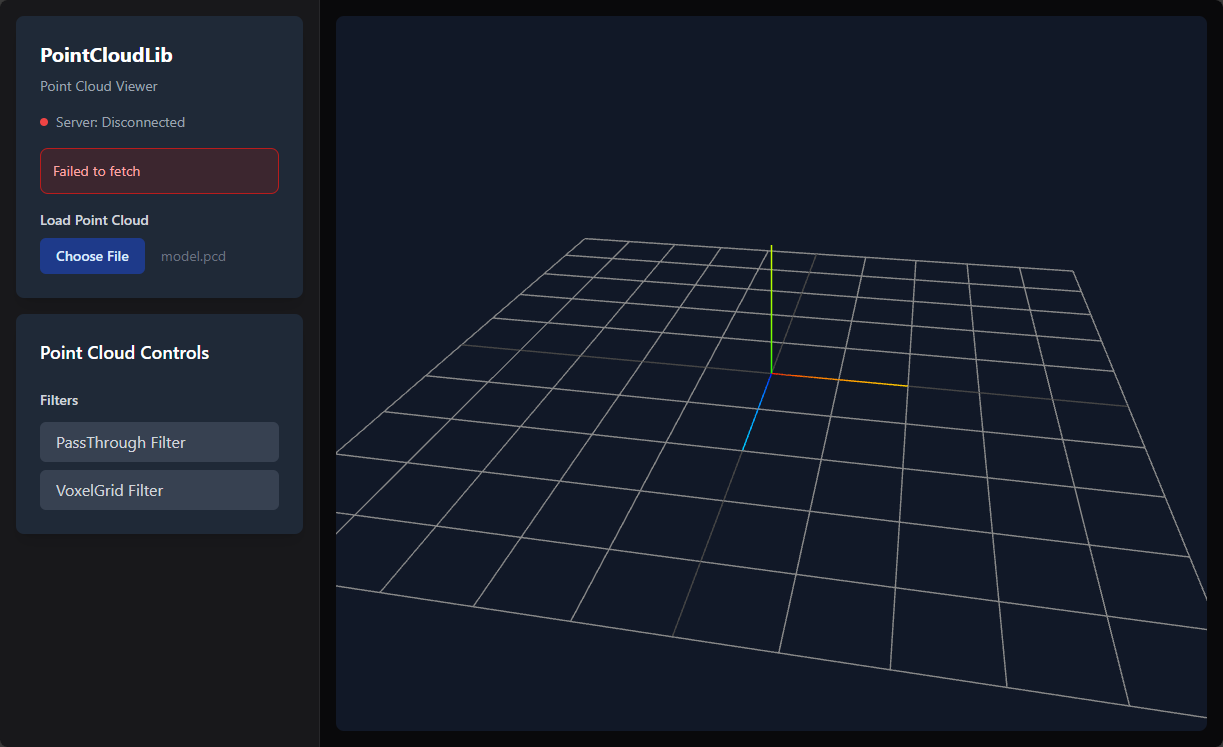
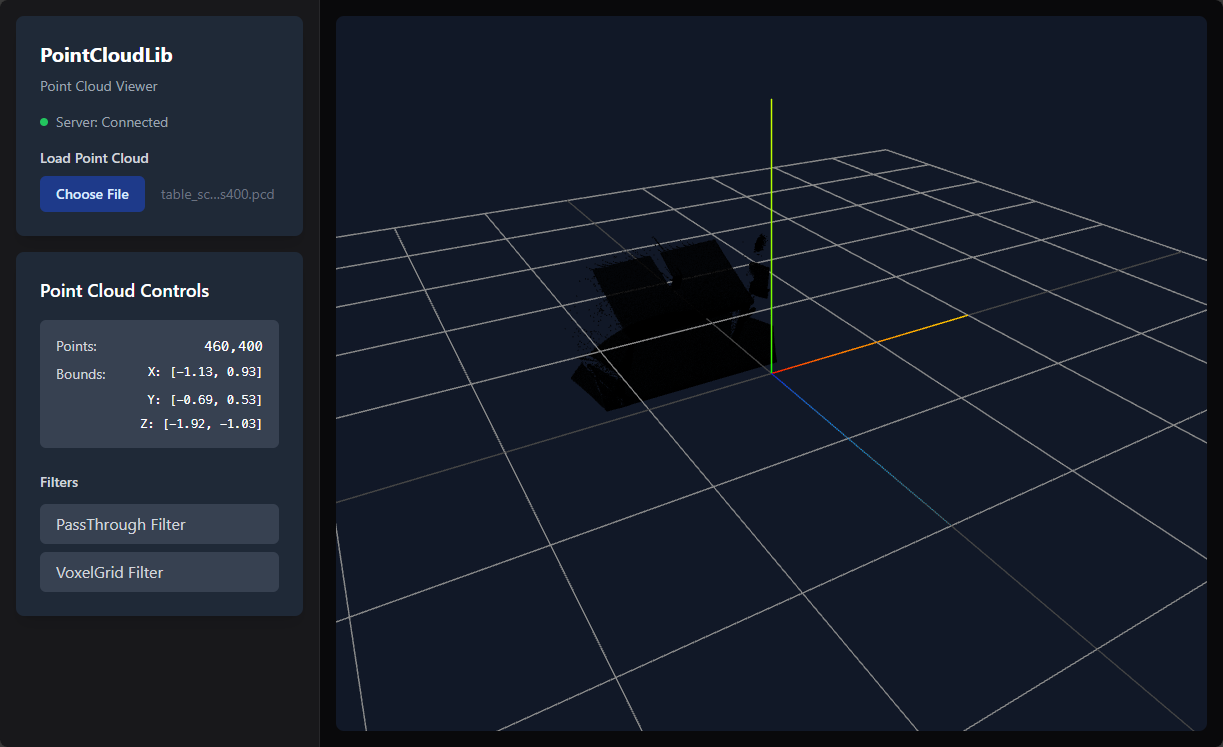
fix: Dockerization for server side fixed fix: File upload (file path cannot found) was not working in docker issue fix fix: Communication ui and server side issue fixed

diff --git a/ui/src/store/pointCloudStore.ts b/ui/src/store/pointCloudStore.ts
@@ -10,6 +10,7 @@ interface PointCloudState {
   serverConnected: boolean
   checkServerHealth: () => Promise<void>
   loadPointCloud: (filePath: string) => Promise<void>
+  uploadPointCloud: (file: File) => Promise<void>
   fetchPoints: () => Promise<void>
   applyPassThroughFilter: (field: 'x'|'y'|'z', min:number, max:number) => Promise<void>
   applyVoxelGridFilter: (leafSize:number) => Promise<void>
@@ -38,6 +39,23 @@ export const usePointCloudStore = create<PointCloudState>((set, get) => ({
         await get().fetchPoints()
       } else {
         set({ error: response.error || 'Failed to load point cloud' })
+      }
+    } catch (e) {
+      set({ error: e instanceof Error ? e.message : 'Unknown error' })
+    } finally {
+      set({ isLoading: false })
+    }
+  },
+
+  uploadPointCloud: async (file: File) => {
+    set({ isLoading: true, error: null })
+    try {
+      const response = await api.uploadPointCloud(file)
+      if (response.success) {
+        set({ stats: response.stats })
+        await get().fetchPoints()
+      } else {
+        set({ error: response.error || 'Failed to upload point cloud' })
       }
     } catch (e) {
       set({ error: e instanceof Error ? e.message : 'Unknown error' })

diff --git a/ui/src/components/FileUpload.tsx b/ui/src/components/FileUpload.tsx
@@ -7,7 +7,7 @@ export function FileUpload() {
   const [isLoading, setIsLoading] = useState(false);
   const [error, setError] = useState<string | null>(null);
   const fileInputRef = useRef<HTMLInputElement>(null);
-  const loadPointCloud = usePointCloudStore((state) => state.loadPointCloud);
+  const uploadPointCloud = usePointCloudStore((state) => state.uploadPointCloud);
 
   const handleFileSelect = async (event: React.ChangeEvent<HTMLInputElement>) => {
     const file = event.target.files?.[0];
@@ -17,7 +17,7 @@ export function FileUpload() {
     setError(null);
 
     try {
-      await loadPointCloud(file.name);
+      await uploadPointCloud(file);
     } catch (err) {
       setError(err instanceof Error ? err.message : 'Failed to load point cloud');
     } finally {

diff --git a/ui/src/app/page.tsx b/ui/src/app/page.tsx
@@ -12,12 +12,12 @@ export default function Home() {
   const checkServerHealth = usePointCloudStore((state) => state.checkServerHealth);
   const error = usePointCloudStore((state) => state.error);
 
-  // Testing ui side without server connection comment this useEffect block
-  // useEffect(() => {
-  //   checkServerHealth();
-  //   const interval = setInterval(checkServerHealth, 5000);
-  //   return () => clearInterval(interval);
-  // }, [checkServerHealth]);
+  // Check server health on mount and every 5 seconds
+  useEffect(() => {
+    checkServerHealth();
+    const interval = setInterval(checkServerHealth, 5000);
+    return () => clearInterval(interval);
+  }, [checkServerHealth]);
 
   const sidebar = (
     <div className="space-y-4 p-4">

diff --git a/ui/src/lib/api.ts b/ui/src/lib/api.ts
@@ -1,4 +1,4 @@
-const API_BASE = 'http://localhost:5050/api'
+const API_BASE = process.env.NEXT_PUBLIC_API_URL || 'http://localhost:5050/api'
 
 export interface PointCloudStats {
   pointCount: number
@@ -24,6 +24,16 @@ export const api = {
       method: 'POST',
       headers: { 'Content-Type': 'application/json' },
       body: JSON.stringify({ path: filePath }),
+    })
+    return res.json()
+  },
+
+  async uploadPointCloud(file: File): Promise<LoadResponse> {
+    const formData = new FormData()
+    formData.append('file', file)
+    const res = await fetch(`${API_BASE}/upload`, {
+      method: 'POST',
+      body: formData,
     })
     return res.json()
   },

diff --git a/ui/next.config.js b/ui/next.config.js
@@ -1,6 +1,9 @@
 /** @type {import('next').NextConfig} */
 const nextConfig = {
-  reactStrictMode: true
+  reactStrictMode: true,
+  env: {
+    NEXT_PUBLIC_API_URL: process.env.NEXT_PUBLIC_API_URL || 'http://localhost:5050/api'
+  }
 }
 
 module.exports = nextConfig;

diff --git a/src/server/http_server.cpp b/src/server/http_server.cpp
@@ -1,8 +1,11 @@
+#include "core/types/point_types.hpp"  // Include first to get full PCL types
 #include "http_server.hpp"
 #include "serialization.hpp"
 #include "core/io/point_cloud_io.hpp"
 #include "core/filters/filters.hpp"
 #include <iostream>
+#include <fstream>
+#include <filesystem>
 #include <nlohmann/json.hpp>
 
 using json = nlohmann::json;
@@ -59,6 +62,67 @@ void HttpServer::setupRoutes() {
 			};
 			res.set_content(response.dump(), "application/json");
             
+		} catch (const std::exception& e) {
+			res.status = 500;
+			res.set_content(json{{"error", e.what()}}.dump(), "application/json");
+		}
+	});
+
+	// Upload point cloud file (multipart/form-data)
+	m_server_.Post("/api/upload", [this](const httplib::Request& req, httplib::Response& res) {
+		try {
+			if (!req.has_file("file")) {
+				res.status = 400;
+				res.set_content(R"({"error":"No file uploaded"})", "application/json");
+				return;
+			}
+			
+			const auto& file = req.get_file_value("file");
+			std::string filename = file.filename;
+			std::string content = file.content;
+			
+			// Get file extension
+			std::string ext = io::getFileExtension(filename);
+			if (ext != "pcd" && ext != "ply") {
+				res.status = 400;
+				res.set_content(json{{"error", "Unsupported file format: " + ext}}.dump(), "application/json");
+				return;
+			}
+			
+			// Create temporary file
+			std::string temp_dir = std::filesystem::temp_directory_path().string();
+			std::string temp_path = temp_dir + "/pointcloud_upload_" + filename;
+			
+			// Write content to temp file
+			std::ofstream ofs(temp_path, std::ios::binary);
+			if (!ofs) {
+				res.status = 500;
+				res.set_content(R"({"error":"Failed to create temporary file"})", "application/json");
+				return;
+			}
+			ofs.write(content.data(), content.size());
+			ofs.close();
+			
+			// Load point cloud from temp file
+			auto result = io::loadPointCloud(temp_path);
+			
+			// Clean up temp file
+			std::filesystem::remove(temp_path);
+			
+			if (!result.success) {
+				res.status = 400;
+				res.set_content(json{{"error", result.error_message}}.dump(), "application/json");
+				return;
+			}
+			
+			setCurrentCloud(result.cloud);
+			
+			json response = {
+				{"success", true},
+				{"stats", statsToJson(result.stats)}
+			};
+			res.set_content(response.dump(), "application/json");
+			
 		} catch (const std::exception& e) {
 			res.status = 500;
 			res.set_content(json{{"error", e.what()}}.dump(), "application/json");

diff --git a/src/main.cpp b/src/main.cpp
@@ -1,7 +1,40 @@
 #include <iostream>
+#include <csignal>
+#include "server/http_server.hpp"
+
+namespace {
+    pointcloud::server::HttpServer* g_server = nullptr;
+    
+    void signalHandler(int signal) {
+        if (g_server) {
+            std::cout << "\nShutting down server..." << std::endl;
+            g_server->stop();
+        }
+    }
+}
 
 int main() {
-    std::cout << "PointCloudLib Server - Placeholder" << std::endl;
-    std::cout << "Build successful!" << std::endl;
+    std::cout << "PointCloudLib Server v0.1.0" << std::endl;
+    std::cout << "Starting HTTP server on port 5050..." << std::endl;
+    
+    // Set up signal handling for graceful shutdown
+    std::signal(SIGINT, signalHandler);
+    std::signal(SIGTERM, signalHandler);
+    
+    try {
+        pointcloud::server::HttpServer server(5050);
+        g_server = &server;
+        
+        std::cout << "Server running at http://0.0.0.0:5050" << std::endl;
+        std::cout << "Press Ctrl+C to stop" << std::endl;
+        
+        server.start();  // Blocking call
+        
+    } catch (const std::exception& e) {
+        std::cerr << "Error: " << e.what() << std::endl;
+        return 1;
+    }
+    
+    std::cout << "Server stopped." << std::endl;
     return 0;
 }

diff --git a/src/server/http_server.hpp b/src/server/http_server.hpp
@@ -4,9 +4,18 @@
 #include <memory>
 #include <atomic>
 #include <mutex>
-#include "core/types/point_types.hpp"
+#include <boost/shared_ptr.hpp>
+
+// Forward declare PCL types to avoid including PCL/Eigen headers
+namespace pcl {
+template<typename PointT> class PointCloud;
+struct PointXYZRGB;
+}
 
 namespace pointcloud::server {
+
+// Use opaque pointer type to avoid Eigen header issues
+using PointCloudPtr = boost::shared_ptr<pcl::PointCloud<pcl::PointXYZRGB>>;
 
 class HttpServer {
 public:
@@ -22,10 +31,10 @@ public:
 	// Check if running
 	bool isRunning() const;
     
-	// Get the current loaded point cloud
+	// Get the current loaded point cloud (defined in cpp file)
 	PointCloudPtr getCurrentCloud() const;
     
-	// Set the current point cloud
+	// Set the current point cloud (defined in cpp file)
 	void setCurrentCloud(PointCloudPtr cloud);
     
 private:

diff --git a/src/core/filters/pass_through_filter.cpp b/src/core/filters/pass_through_filter.cpp
@@ -1,5 +1,6 @@
 #include "pass_through_filter.hpp"
 #include <pcl/filters/passthrough.h>
+#include <boost/make_shared.hpp>
 
 namespace pointcloud::filters {
 
@@ -16,10 +17,10 @@ PassThroughConfig PassThroughFilter::getConfig() const {
 
 PointCloudPtr PassThroughFilter::apply(PointCloudConstPtr input) const {
     if (!input || input->empty()) {
-        return std::make_shared<PointCloud>();
+        return boost::make_shared<PointCloud>();
     }
     
-    auto output = std::make_shared<PointCloud>();
+    auto output = boost::make_shared<PointCloud>();
     
     pcl::PassThrough<PointT> filter;
     filter.setInputCloud(input);

diff --git a/src/core/filters/voxel_grid_filter.cpp b/src/core/filters/voxel_grid_filter.cpp
@@ -1,5 +1,6 @@
 #include "voxel_grid_filter.hpp"
 #include <pcl/filters/voxel_grid.h>
+#include <boost/make_shared.hpp>
 
 namespace pointcloud::filters {
 
@@ -28,10 +29,10 @@ VoxelGridConfig VoxelGridFilter::getConfig() const {
 
 PointCloudPtr VoxelGridFilter::apply(PointCloudConstPtr input) const {
     if (!input || input->empty()) {
-        return std::make_shared<PointCloud>();
+        return boost::make_shared<PointCloud>();
     }
     
-    auto output = std::make_shared<PointCloud>();
+    auto output = boost::make_shared<PointCloud>();
     
     pcl::VoxelGrid<PointT> filter;
     filter.setInputCloud(input);

diff --git a/src/core/io/point_cloud_io.cpp b/src/core/io/point_cloud_io.cpp
@@ -4,6 +4,7 @@
 #include <pcl/io/pcd_io.h>
 #include <pcl/io/ply_io.h>
 #include <pcl/common/common.h>
+#include <boost/make_shared.hpp>
 #include <algorithm>
 #include <filesystem>
 
@@ -46,7 +47,7 @@ PointCloudStats calculateStats(PointCloudConstPtr cloud)
 LoadResult loadPointCloud(const std::string& file_path) 
 {
 	LoadResult result{};
-	result.cloud = std::make_shared<PointCloud>();
+	result.cloud = boost::make_shared<PointCloud>();
 	result.success = false;
 
 	if (!std::filesystem::exists(file_path)) {

diff --git a/README.md b/README.md
@@ -7,21 +7,39 @@ UI (Frontend) Side [In powershell]
 - ```cd ~/PointCloudlib/ui```
 
 - ```docker build -t pointcloudlib-ui .```
+  
+[//]: # "```docker build --build-arg NEXT_PUBLIC_API_URL=http://localhost:5050/api -t pointcloudlib-ui .```"
 
-- ```docker run -p 3000:3000 pointcloudlib-ui```
+- ```docker run -p 3000:3000 pointcloudlib-ui``` or
+- ```docker run -d --name pointcloudlib-ui -p 3000:3000 pointcloudlib-ui```
 
 - ```In web browser paste it-> http://localhost:3000 ```
 
 Yey!
 ![alt text](frontend_image.png)
 
-
 Server (Backend) Side
 - ```cd ~/PointCloudlib```
 
+
 - ```docker build -t pointcloudlib-server .```
 
-- ```docker run -p 5050:5050 pointcloudlib-server pointcloudlib-ui```
+- ```docker run -p 5050:5050 pointcloudlib-server pointcloudlib-ui```or
+- ```docker run -p 5050:5050 pointcloudlib-server```
+
+
+Test: 
+- ```curl http://localhost:5050/api/health```
+
+
+
+To:Do's 
+---
+    - Add move/rotate functions to obj feat
+    - Add colorful 3d viewer feat
+    - Add extra filters
+    - Add clusterings feat
+    - Add segmentation feat
 
 ## Architecture Diagram
 ```
